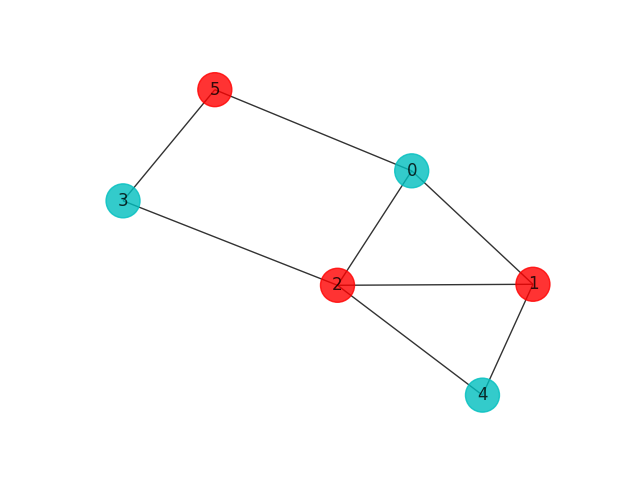
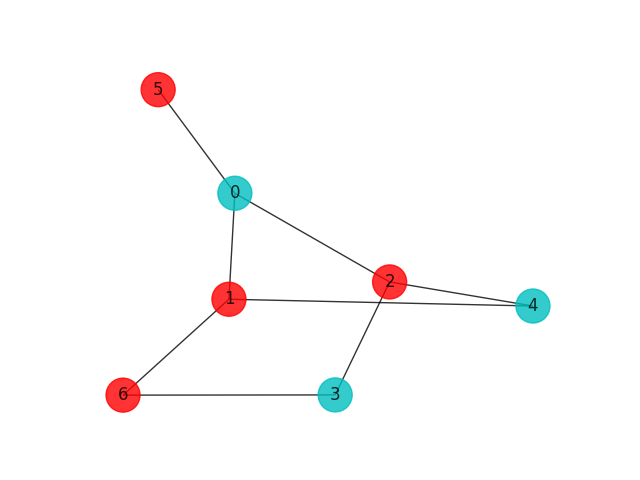
updates

diff --git a/drafts/qaoa_large_qiskit.py b/drafts/qaoa_large_qiskit.py
@@ -19,7 +19,7 @@ from qiskit_optimization.problems import QuadraticProgram
 n = 7  # Number of nodes in graph
 G = nx.Graph()
 G.add_nodes_from(np.arange(0, n, 1))
-elist = [(0, 1), (0, 2), (1, 2), (2, 3), (1, 4), (2, 4), (0 ,5), (3, 5), (3,7), (1,7)]
+elist = [(0, 1), (0, 2),  (2, 3), (1, 4), (2, 4), (0 ,5),  (3, 6), (1,6)]
 # tuple is (i,j,weight) where (i,j) is the edge
 G.add_edges_from(elist)
 
@@ -89,3 +89,37 @@ print("solution objective:", qp.objective.evaluate(x))
 colors = ["r" if x[i] == 0 else "c" for i in range(n)]
 draw_graph(G, colors, pos, 'qaoa_large_test.png')
 
+algorithm_globals.random_seed = 123
+seed = 10598
+backend = Aer.get_backend("aer_simulator_statevector")
+quantum_instance = QuantumInstance(backend, seed_simulator=seed, seed_transpiler=seed)
+
+# construct VQE
+spsa = SPSA(maxiter=300)
+ry = TwoLocal(qubitOp.num_qubits, "ry", "cz", reps=5, entanglement="linear")
+vqe = VQE(ry, optimizer=spsa, quantum_instance=quantum_instance)
+
+# run VQE
+result = vqe.compute_minimum_eigenvalue(qubitOp)
+
+# print results
+x = max_cut.sample_most_likely(result.eigenstate)
+print("energy:", result.eigenvalue.real)
+print("time:", result.optimizer_time)
+print("max-cut objective:", result.eigenvalue.real + offset)
+print("solution:", x)
+print("solution objective:", qp.objective.evaluate(x))
+
+# plot results
+colors = ["r" if x[i] == 0 else "c" for i in range(n)]
+draw_graph(G, colors, pos)
+
+# create minimum eigen optimizer based on VQE
+vqe_optimizer = MinimumEigenOptimizer(vqe)
+
+# solve quadratic program
+result = vqe_optimizer.solve(qp)
+print(result)
+
+colors = ["r" if result.x[i] == 0 else "c" for i in range(n)]
+draw_graph(G, colors, pos)

diff --git a/drafts/qaoa_large_no_vqc.py b/drafts/qaoa_large_no_vqc.py
@@ -6,9 +6,11 @@ from qiskit_optimization.applications import Maxcut, Tsp
 import joblib
 np.random.seed(42)
 
-n_wires = 6
-graph =  [(0, 1), (0, 2), (1, 2), (2, 3), (1, 4), (2, 4), (0 ,5), (3, 5)]
-
+n_wires = 7
+graph =   [(0, 1), (0, 2),  (2, 3), (1, 4), (2, 4), (0 ,5),  (3, 6), (1,6)]
+#max-cut objective: -7.0
+#solution: [1 0 0 1 1 0 0]
+#solution objective: 7.0
 # unitary operator U_B with parameter beta
 def U_B(beta):
     for wire in range(n_wires):
@@ -86,7 +88,7 @@ def qaoa_maxcut(n_layers=1):
     counts = np.bincount(np.array(bit_strings))
     most_freq_bit_string = np.argmax(counts)
     print("Optimized (gamma, beta) vectors:\n{}".format(params[:, :n_layers]))
-    print("Most frequently sampled bit string is: {:05b}".format(most_freq_bit_string))
+    print("Most frequently sampled bit string is: {:07b}".format(most_freq_bit_string))
 
     return -objective(params), bit_strings
 
@@ -99,7 +101,7 @@ bitstrings2 = qaoa_maxcut(n_layers=3)[1]
 import matplotlib.pyplot as plt
 
 xticks = range(0, 16)
-xtick_labels = list(map(lambda x: format(x, "05b"), xticks))
+xtick_labels = list(map(lambda x: format(x, "07b"), xticks))
 bins = np.arange(0, 17) - 0.5
 
 fig, (ax1, ax2) = plt.subplots(1, 2, figsize=(8, 4))

diff --git a/drafts/qaoa_vqc_test.py b/drafts/qaoa_vqc_test.py
@@ -12,10 +12,12 @@ The cost Hamiltonian:
 C_alpha = 1/2 * (1 - Z_j Z_k)
 (j, k) is an edge of the graph
 Graph see https://pennylane.ai/qml/demos/tutorial_qaoa_maxcut.html
-target solution is z = 1010
 """
-n_wires = 4  # Number of system qubits.
-graph = [(0,1), (0,3), (1,2), (2,3)]
+n_wires = 7
+graph =   [(0, 1), (0, 2),  (2, 3), (1, 4), (2, 4), (0 ,5),  (3, 6), (1,6)]
+#max-cut objective: -7.0
+#solution: [1 0 0 1 1 0 0]
+#solution objective: 7.0
 n_shots = 100 # Number of quantum measurements.
 steps = 500  # Number of optimization steps
 learning_rate = 0.5  # Learning rate
